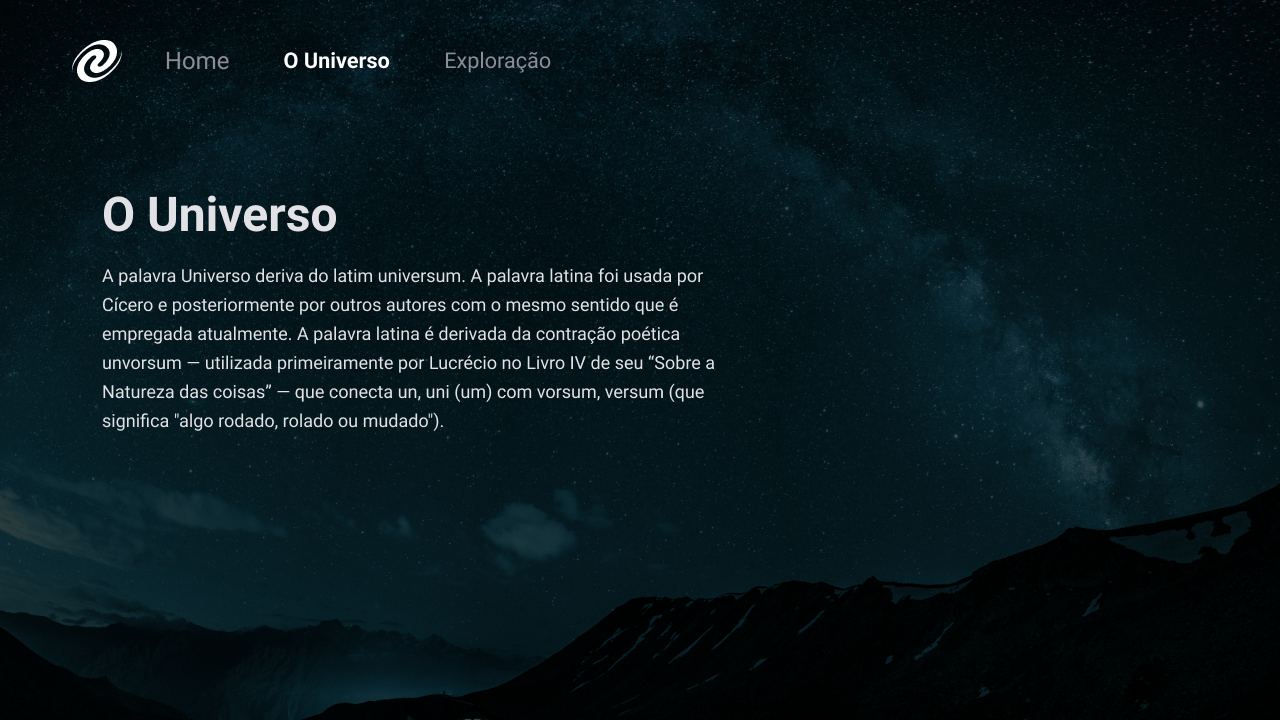
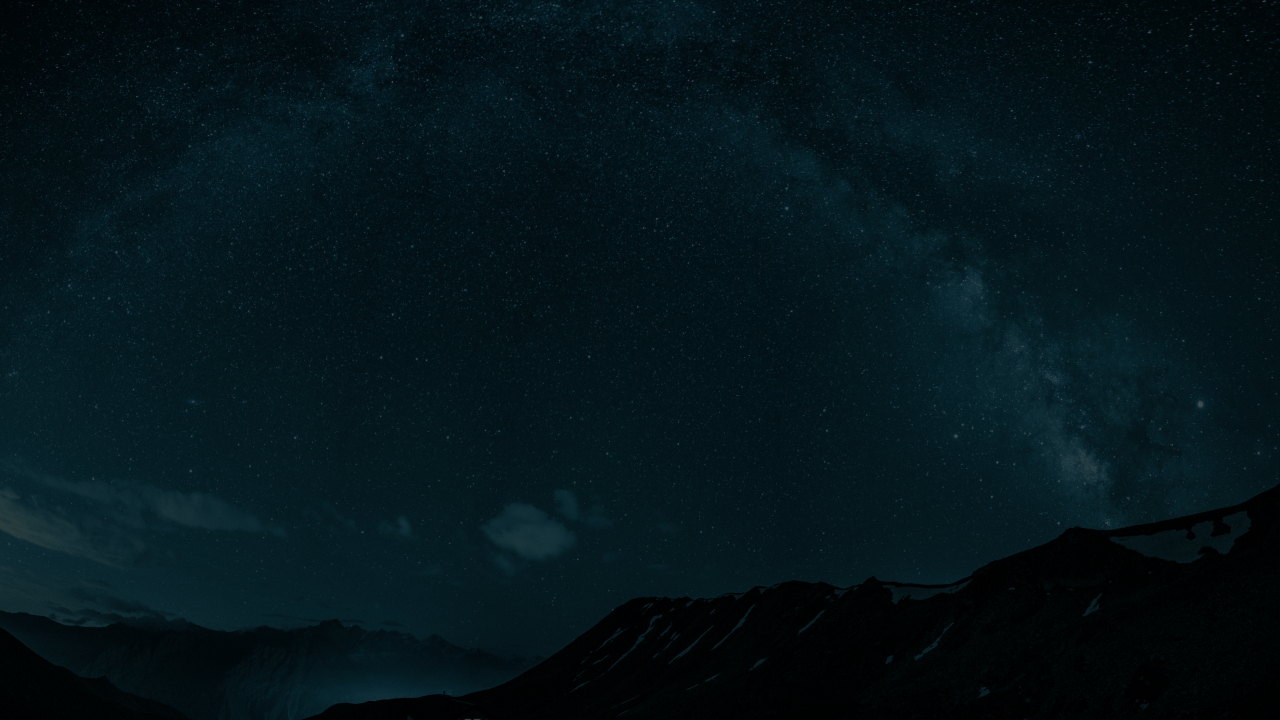
Css e esqueleto js para alteração de bg

diff --git a/styles.css b/styles.css
@@ -1,3 +1,87 @@
+* {
+  margin: 0;
+  border: 0;
+  box-sizing: border-box;
+}
+
+:root {
+  font-size: 62.5%;
+}
+
+body {
+  display: grid;
+  width: 104rem;
+  place-content: center;
+}
+
+nav {
+  display: flex;
+  align-items: center;
+  gap: 5rem;
+  margin: 5rem 0 10rem;
+
+}
+
+nav a {
+  text-decoration: none;
+  color: #353535;
+  font-size: 3rem;
+  font-weight: normal;
+}
+
+nav a:focus {
+  font-weight: bold;
+  color: #E1E1E6;
+}
+
 .home {
   background-image: url(./assets/image1.png);
+  background-position: center;
+  background-repeat: no-repeat;
+  background-size: cover;
+  width: 100%;
+  height: 100%;
+}
+
+.home button {
+  border-radius: .5rem;
+  padding: 2rem 4rem;
+  background: none;
+  border: 2px solid #E1E1E6;
+  max-width: 20rem;
+}
+
+.home a {
+  text-decoration: none;
+  color: #E1E1E6;
+}
+
+.universe {
+  background-image: url(./assets/image2.png);
+  background-position: center;
+  background-repeat: no-repeat;
+  background-size: cover;
+  width: 100%;
+  height: 100vh;
+}
+
+h1 {
+  color: #E1E1E6;
+  font-size: 6rem;
+  margin-bottom: 4rem;
+}
+
+p {
+  color: #E1E1E6;
+  width: 63.6rem;
+  font-size: 2rem;
+}
+
+.explorer {
+  background-image: url(./assets/image3.png);
+  background-position: center;
+  background-repeat: no-repeat;
+  background-size: cover;
+  width: 100%;
+  height: 100vh;
 }

diff --git a/js/background.js b/js/background.js
@@ -1,0 +1,25 @@
+const linkHome = document.querySelector("#home")
+const linkUniverse = document.querySelector("#universe")
+const linkExplorer = document.querySelector("#explorer")
+
+linkHome.addEventListener("click", () => {
+  document.documentElement.classList.remove("universe");
+  document.documentElement.classList.remove("explorer");
+  document.documentElement.classList.add("home");
+})
+
+linkUniverse.addEventListener("click", () => {
+  document.documentElement.classList.add("universe");
+  document.documentElement.classList.remove("explorer");
+  document.documentElement.classList.remove("home");
+})
+
+linkExplorer.addEventListener("click", () => {
+  document.documentElement.classList.remove("universe");
+  document.documentElement.classList.add("explorer");
+  document.documentElement.classList.remove("home");
+})
+
+
+
+

diff --git a/index.html b/index.html
@@ -1,5 +1,5 @@
 <!DOCTYPE html>
-<html lang="pt-br">
+<html lang="pt-br" class="home">
 
 <head>
   <meta charset="UTF-8">
@@ -10,14 +10,17 @@
 </head>
 
 <body>
+  
   <nav>
     <img src="./assets/Vector.svg" alt="Logo Buraco Negro" />
-    <a href="/" onclick="route()">Home</a>
-    <a href="/universe" onclick="route()">O Universo</a>
-    <a href="/explorer" onclick="route()">Exploração</a>
+    <a id="home" href="/" onclick="route()">Home</a>
+    <a id="universe" href="/universe" onclick="route()">O Universo</a>
+    <a id="explorer" href="/explorer" onclick="route()">Exploração</a>
   </nav>
 
-  <div id="app"></div>
+  <div id="app">
+    
+  </div>
 
 </body>
 

diff --git a/pages/explorer.html b/pages/explorer.html
@@ -1,4 +1,4 @@
-<div class="explorer">
+<div>
   <h1>Exploração</h1>
   <p>
     Os corpos celestes e astros sempre foram motivo de grande fascinação na humanidade. 

diff --git a/pages/universe.html b/pages/universe.html
@@ -1,4 +1,4 @@
-<div class="universe">
+<div>
   <h1>O Universo</h1>
   <p>
     A palavra Universo deriva do latim universum. A palavra latina foi usada por Cícero 

diff --git a/pages/home.html b/pages/home.html
@@ -1,4 +1,4 @@
-<div class="home">
+<div>
   <h1>Explore o Universo</h1>
   <button><a href="/universe" onclick="route()">QUERO SABER MAIS</a></button>
 </div>
